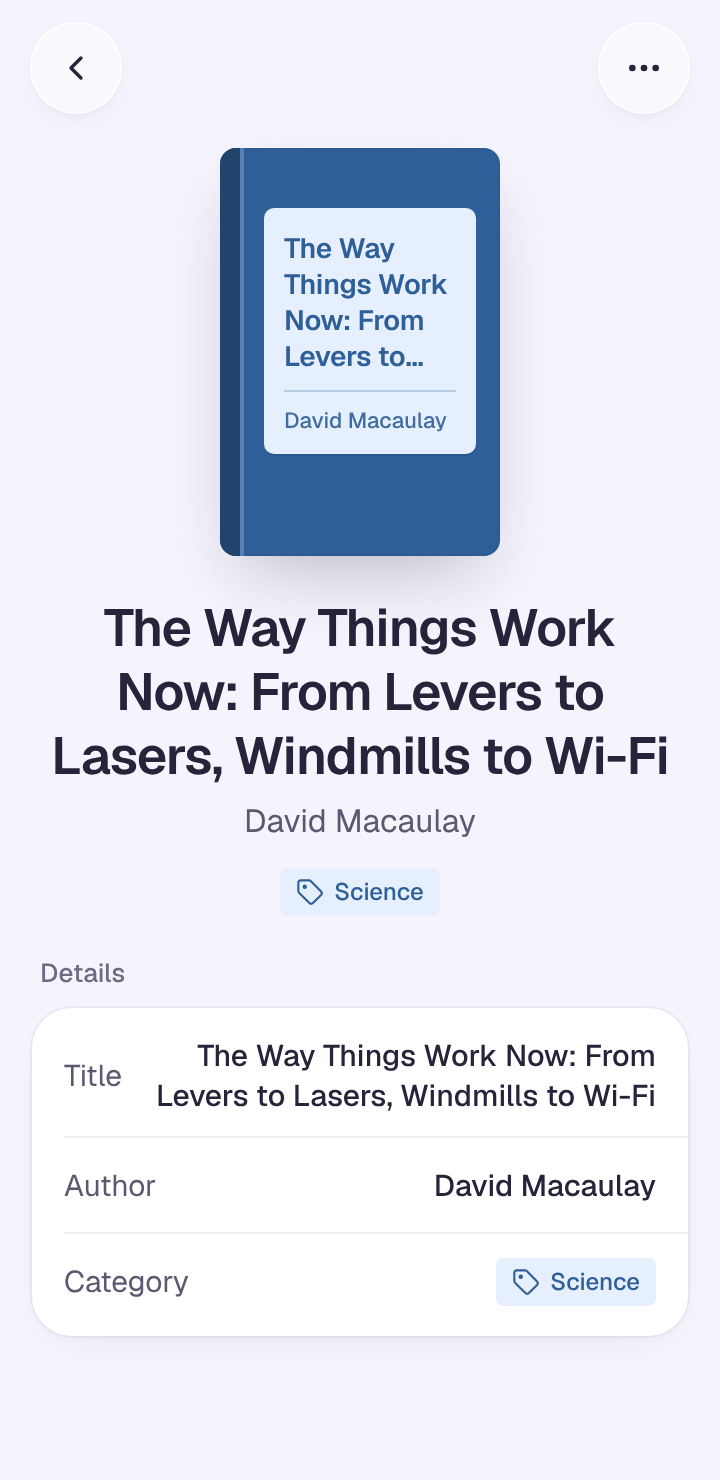
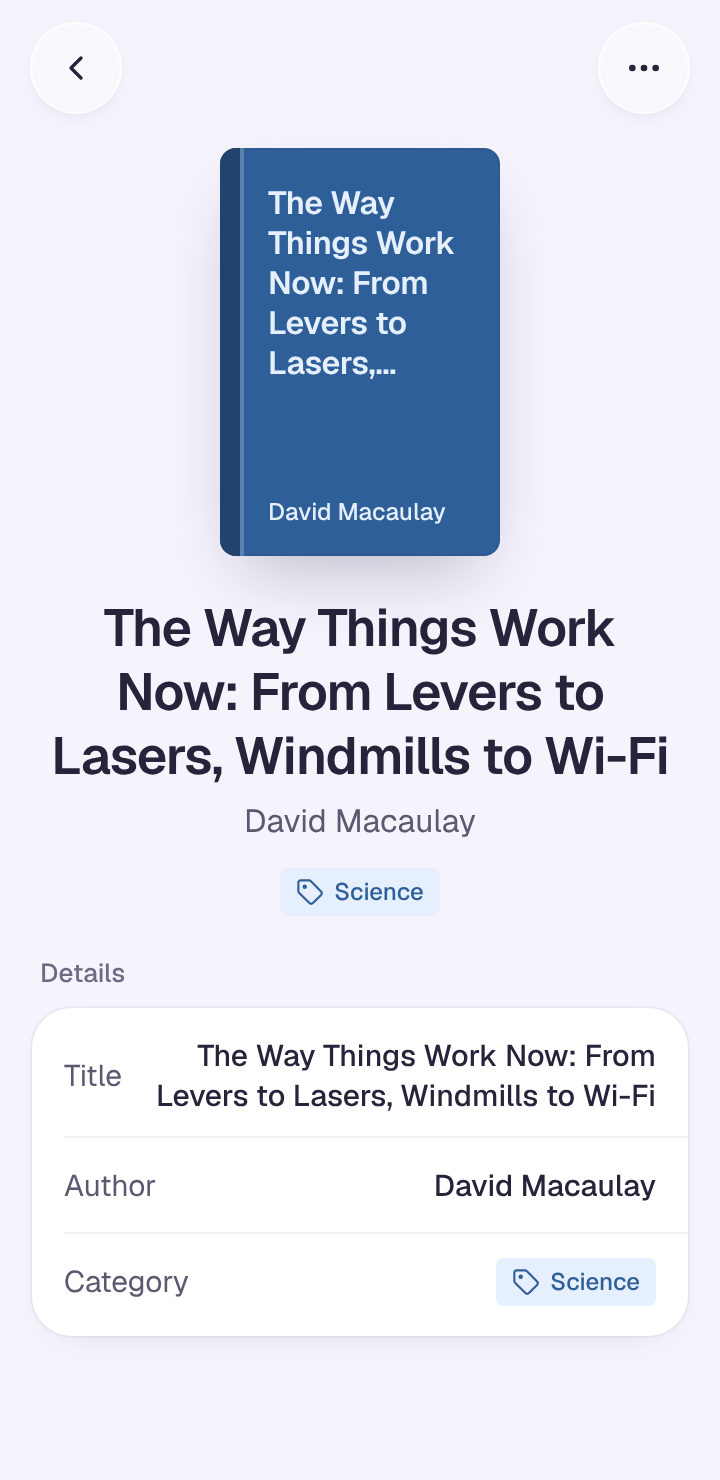
docs(goho): print generated cover text on the cloth and use it in the books list
- Drop the cover label: title and author sit on the category colour cloth in a same-hue contrasting colour
- Deepen the dark cloth so cover text keeps at least 5.2:1
- Use a small generated cover for books without a cover in the books list
- Regenerate the no-cover mockups and add books list mockups

Changed region(s): [[0.3667, 0.1243, 0.6722, 0.3108], [0.3667, 0.3419, 0.6111, 0.373]]

diff --git a/.agents/skills/goho-design/references/screens.md b/.agents/skills/goho-design/references/screens.md
@@ -282,7 +282,7 @@ Native list-only implementation of the October 22 design (`nav-add-closed-*.png`
 
 **Data:** `GET /book-uploads` then `GET /books`, together on start, return to the foreground, pull and retry, independently of receipts. Listing scans first means each succeeded scan's book is already saved. While a scan is queued or processing, Books polls quietly every 5s only while the app is in the foreground. A refresh joins or queues behind one already running.
 
-**List:** one ungrouped `ListCard`, 12dp below the header fade so its top edge stays visible; no date or category headings. Queued and processing scans (“New book”, a shimmering metadata pill, Purple “Reading cover…”) and failed scans (“Unknown book”, upload time, Orange “Not processed”) come first, newest first. Saved books follow in server order, newest first; each shows its cover, one-line title, author with optional “· reading level”, and its server category as a labelled `Tag`. A succeeded scan never adds a second row. Needs attention lists failed scans. Covers load only for books with `hasImage`; books without one show a neutral book placeholder. See `BookRow` in `components.md`.
+**List:** one ungrouped `ListCard`, 12dp below the header fade so its top edge stays visible; no date or category headings. Queued and processing scans (“New book”, a shimmering metadata pill, Purple “Reading cover…”) and failed scans (“Unknown book”, upload time, Orange “Not processed”) come first, newest first. Saved books follow in server order, newest first; each shows its cover, one-line title, author with optional “· reading level”, and its server category as a labelled `Tag`. A succeeded scan never adds a second row. Needs attention lists failed scans. Covers load only for books with `hasImage`; books without one, or whose cover fails to load, show the small generated cloth cover in their category colour (approved October 22, 2026; see `BookCover` in `components.md` and section 9). See `BookRow` in `components.md`.
 
 **States:**
 
@@ -305,7 +305,7 @@ Opened by tapping a saved book row. Rows still reading a cover are not tappable;
 
 **Cover** (books with `hasImage` only; 12 below the bar, centered): the cover image at `bookCover` 140×204dp, `ContentScale.Crop` inside shape `cover` (8dp), a 1dp `outline` ring and a soft drop shadow (0/16/34dp, black at 45% dark / `shadow` at 30% light, −12dp spread). It sits directly on the background, not in a photo frame. Tap opens the existing photo viewer with the uncropped image; accessibility action “View book cover”, viewer description “Book cover, {title}”. While the image is loading, show a `cover`-shaped skeleton mask of the same size that is not tappable.
 
-**Generated cover** (approved October 22, 2026, “cloth and label”; `hasImage` false, or the image fails to load): keep the same 140×204dp `cover` slot so every book page has the same shape, and draw a clothbound book in the category colour. Cloth: fill the slot with the category `TagColor` content colour in light mode, and with the dark container mixed 42% toward the dark content colour in dark mode. Spine: a 10dp band on the leading edge in the cloth colour mixed 28% toward black, followed by a 1.5dp highlight in white at 22% (light) / 10% (dark). Label: a 5dp-rounded plate in the category `TagColor` container, inset 22dp start, 12dp end and 30dp from the top, with 11dp top, 10dp side and 10dp bottom padding and a 1dp bottom edge in black at 6% (light) / 18% (dark). On the label, the title in `bookCoverTitle` (14/18sp SemiBold, −0.01em, up to 4 lines with an ellipsis), a 1dp rule in the content colour at 25% with 8dp above and 7dp below, then the author in 11/14sp Medium at 90%, one line with an ellipsis. All text uses the content colour on the container, so it keeps the tag pair’s contrast (5.4:1 or better) in every colour and theme. The slot keeps a 1dp inset ring (black 8% light, white 6% dark) and the same shadow as a real cover. It is decorative: not tappable, no viewer, and hidden from accessibility (the hero already announces the title and author). Unknown category colours use Grey (Fiction and Nonfiction are Grey today). Book list thumbnails without a cover keep the neutral book placeholder.
+**Generated cover** (approved October 22, 2026, “cloth”; `hasImage` false, or the image fails to load): keep the same 140×204dp `cover` slot so every book page has the same shape, and draw a clothbound book in the category colour with the title and author printed straight on it. Cloth: the category `TagColor` content colour in light mode; in dark mode, the dark container mixed 24% toward the dark content colour. Spine: a 10dp band on the leading edge in the cloth colour mixed 28% toward black, followed by a 1.5dp highlight in white at 22% (light) / 10% (dark). Text, in one same-hue contrasting colour: the category `TagColor` container in light mode, and the dark content colour mixed 40% toward white in dark mode (5.2:1 or better on the cloth in every colour). Title in `bookCoverTitle` (16/20sp SemiBold, −0.01em) at 18dp top, 24dp start (past the spine) and 14dp end, up to 5 lines with an ellipsis. Author in 12/16sp Medium, one line with an ellipsis, 14dp from the bottom with the same side insets. No label, card or rule. The slot keeps a 1dp inset ring (black 8% light, white 6% dark) and the same shadow as a real cover. It is decorative: not tappable, no viewer, and hidden from accessibility (the hero already announces the title and author). Unknown category colours use Grey (Fiction and Nonfiction are Grey today). The Books list uses the small version of this cover (see `BookCover` in components.md).
 
 **Hero** (20 below the cover or generated cover; 24dp side padding, centered text):
 

diff --git a/.agents/skills/goho-design/SKILL.md b/.agents/skills/goho-design/SKILL.md
@@ -37,7 +37,7 @@ Approved design, October 22, 2026. The Add button, the title menu and switching 
 
 The app reopens on the last-used section. Sections keep their own filter page and scroll positions while you switch. Back on a section root does not switch sections. Details screens push over their section as today; the section title is not shown there. Full layout, motion and accessibility specs: [screens.md section 7](references/screens.md#7-section-navigation-and-add-button); components in [components.md](references/components.md#sectiontitle-and-sectionmenu); tokens in [tokens.md](references/tokens.md#navigation-and-add-menu). Mockups: `nav-*.png` in the [mockup guide](assets/mockups/README.md#section-navigation-and-add-button-october-22-2026-approved-design).
 
-**Books** list is implemented as a display-only list; see [screens.md section 8](references/screens.md#8-books-list). Seeded and saved books show their cover or a neutral placeholder, one-line title, author, optional reading level and server category tag; unfinished and failed scans appear first, failed ones under Needs attention. Empty Books is text-only. The complete Books design follows the Receipts patterns exactly: All / Needs attention filters, a scan appearing inline at the top as “Reading cover…”, failed scans kept as Not processed and listed under Needs attention, read-only details, deletion through the shared options sheet, and the same scan preview (“New book”, Upload cover) targeting `POST /book-uploads`. The latest dev contract now includes the Books and book-upload APIs. Verify their current behaviour when implementing the Books screens; API availability alone does not add a Books UI. Books has no search, no manual entry and no editing. Book details are approved as a cover-first page, with a generated “cloth and label” cover (the category colour as the cloth, a darker spine, and a title label) when a book has no cover image: [screens.md section 9](references/screens.md#9-book-details-cover-first). Other unbuilt Books screens (scan preview) have no separate spec yet; derive them from the Receipts specs and the server’s Books contract, and ask before inventing anything else.
+**Books** list is implemented as a display-only list; see [screens.md section 8](references/screens.md#8-books-list). Seeded and saved books show their cover or, without one, a small generated cloth cover in the category colour (approved October 22, 2026; the native list still shows a neutral placeholder), one-line title, author, optional reading level and server category tag; unfinished and failed scans appear first, failed ones under Needs attention. Empty Books is text-only. The complete Books design follows the Receipts patterns exactly: All / Needs attention filters, a scan appearing inline at the top as “Reading cover…”, failed scans kept as Not processed and listed under Needs attention, read-only details, deletion through the shared options sheet, and the same scan preview (“New book”, Upload cover) targeting `POST /book-uploads`. The latest dev contract now includes the Books and book-upload APIs. Verify their current behaviour when implementing the Books screens; API availability alone does not add a Books UI. Books has no search, no manual entry and no editing. Book details are approved as a cover-first page, with a generated “cloth” cover (the category colour as the cloth, a darker spine, and the title and author printed on it in a same-hue contrasting colour) when a book has no cover image; the Books list uses its small version: [screens.md section 9](references/screens.md#9-book-details-cover-first). Other unbuilt Books screens (scan preview) have no separate spec yet; derive them from the Receipts specs and the server’s Books contract, and ask before inventing anything else.
 
 ## Geist typography
 

diff --git a/.agents/skills/goho-design/references/tokens.md b/.agents/skills/goho-design/references/tokens.md
@@ -172,7 +172,7 @@ The `statusCard` color and shape tokens and legacy elevation treatment are retai
 - Separate filter tabs remain below the title, without an enclosing track: 13sp / 18sp, 10dp horizontal padding, 5dp count gaps, 36dp visible selected pill within at least 44dp tap targets. No scroll transition. Use weight 500 and retain one light haptic per completed filter click.
 - `timestamp`: Geist 400, 13sp / 18sp, zero tracking, proportional digit widths.
 - Receipt placeholders: 20×28dp symbols, 1.5dp stroke, centered in the existing 40×48dp thumbnail.
-- Book cover placeholders: 20dp (`coverIcon`) book or scan icons centered in the 40×56dp cover. Failed scans add an 8dp (`coverDot`) `attention` dot inset 6dp (`coverDotInset`) from the bottom end.
+- Book cover placeholders: saved books without a cover use the small generated cloth cover (`BookCover` in components.md). Scans use 20dp (`coverIcon`) book or scan icons centered in the 40×56dp cover. Failed scans add an 8dp (`coverDot`) `attention` dot inset 6dp (`coverDotInset`) from the bottom end.
 
 ## Receipt item card
 
@@ -217,4 +217,4 @@ Motion: native `SECTION_MENU_ENTER_MILLIS` = 160 / `SECTION_MENU_EXIT_MILLIS` = 
 
 ## Book details
 
-Approved October 22, 2026 (`screens.md` section 8). `bookCover` = 140×204dp (about 2:3), shape `cover` 8dp, 1dp `outline` ring, shadow 0/16/34dp with −12dp spread (black 45% in dark, `shadow` 30% in light). `bookTitle` = 26/32sp, weight 600, −0.02em, centered, unlimited lines. Author uses 16/22sp Regular in `textSecondary`. Spacing: cover 12 below the top bar, hero 20 below the cover, author 6 below the title, tag 12 below the author, Details label 24 below the hero. Book list thumbnails stay 40×56dp with the `thumb` shape. Generated cover (no image, “cloth and label”): cloth = category `TagColor` content (light) or dark container mixed 42% toward dark content (dark); 10dp spine in the cloth mixed 28% toward black plus a 1.5dp white highlight (22% light / 10% dark); label = `TagColor` container, 5dp corners, inset 22 start / 12 end / 30 top, padding 11 top / 10 sides / 10 bottom; `bookCoverTitle` = 14/18sp SemiBold −0.01em (max 4 lines), 1dp rule at 25% (8 above, 7 below), author 11/14sp Medium at 90% (1 line). Label text is the content colour on the container.
+Approved October 22, 2026 (`screens.md` section 8). `bookCover` = 140×204dp (about 2:3), shape `cover` 8dp, 1dp `outline` ring, shadow 0/16/34dp with −12dp spread (black 45% in dark, `shadow` 30% in light). `bookTitle` = 26/32sp, weight 600, −0.02em, centered, unlimited lines. Author uses 16/22sp Regular in `textSecondary`. Spacing: cover 12 below the top bar, hero 20 below the cover, author 6 below the title, tag 12 below the author, Details label 24 below the hero. Book list thumbnails stay 40×56dp with the `thumb` shape. Generated cover (no image, “cloth”): cloth = category `TagColor` content (light) or dark container mixed 24% toward dark content (dark); 10dp spine in the cloth mixed 28% toward black plus a 1.5dp white highlight (22% light / 10% dark); text = `TagColor` container (light) or dark content mixed 40% toward white (dark), at least 5.2:1 on the cloth; `bookCoverTitle` = 16/20sp SemiBold −0.01em (max 5 lines) at 18 top / 24 start / 14 end; author 12/16sp Medium (1 line), 14 from the bottom. List thumbnails use the 40×56dp version with a 3dp spine and bar marks instead of text.

diff --git a/.agents/skills/goho-design/assets/mockups/README.md b/.agents/skills/goho-design/assets/mockups/README.md
@@ -9,7 +9,8 @@ The current family icon sources and Android resources are documented in the [lau
 Design renders from the Goho brand canvas (“Book details”) at 360dp width and 2× (720×1480px). The [section 9 spec](../../references/screens.md#9-book-details-cover-first) wins where they differ. Books and covers are illustrative sample data.
 
 - `book-details-light.png`, `book-details-dark.png`: cover first, centered title, author and category tag, then the Details card.
-- `book-details-no-cover-light.png`, `book-details-no-cover-dark.png`: the generated “cloth and label” cover for books without a cover image (category colour cloth, darker spine, title label in the tag container colour); the light one also has no reading level and a long title that the label truncates while the hero wraps it.
+- `book-details-no-cover-light.png`, `book-details-no-cover-dark.png`: the generated “cloth” cover for books without a cover image (category colour cloth, darker spine, title and author printed in a same-hue contrasting colour); the light one also has no reading level and a long title that the cover truncates while the hero wraps it.
+- `books-generated-covers-light.png`, `books-generated-covers-dark.png`: the Books list with the small generated cover for books without a cover image, in each category colour, beside an illustrative real cover.
 - `book-details-loading-light.png`, `book-details-cover-loading-dark.png`: initial loading, and a loaded book whose cover is still loading.
 - `book-details-options-light.png`, `book-details-confirm-dark.png`, `book-details-delete-error-light.png`: the shared options sheet with Delete book, its confirmation and its failure state.
 
@@ -39,7 +40,7 @@ Canonical source snapshots: `SectionTitle.kt`, `SectionMenu.kt`, `SectionScreen.
 
 Display-only Books list reached from the title menu, using books from the local development seed (no covers). The dark and large-text captures also include temporary processing and failed upload rows; these were removed after manual validation. It follows [screens.md section 8](../../references/screens.md#8-books-list); the approved `nav-add-closed-*.png` and `nav-menu-books-*.png` renders above remain the design reference. Native captures from the Goho Dev emulator, added after validation:
 
-- `books-native-light.png`, `books-native-dark.png`: seeded books with neutral cover placeholders, one-line titles, author and optional reading level, and server category tags.
+- `books-native-light.png`, `books-native-dark.png`: seeded books with neutral cover placeholders (now superseded by the generated cover, `books-generated-covers-*.png`), one-line titles, author and optional reading level, and server category tags.
 - `books-menu-native-light.png`: the section menu opened from Books, Books selected, with Receipts' All count and the saved-book count.
 - `books-native-loading-light.png`: the initial skeleton rows with Add in its usual position.
 - `books-native-empty-light.png`: the text-only empty state.

diff --git a/.agents/skills/goho-design/references/components.md b/.agents/skills/goho-design/references/components.md
@@ -260,5 +260,5 @@ Display-only Books rows in `ui/main/BookRow.kt` (mirrored), inside one `ListCard
 - Title: `rowTitle`, one line with ellipsis at every font size; `textPrimary` for saved books, `textSecondary` for “New book” and “Unknown book”.
 - Metadata (`meta`, `textTertiary`): author, or “author · reading level” when one is set. A processing scan shows a shimmering 12dp pill in the metadata line. A failed scan shows its upload time like receipt rows (“Today, 8:14 AM”, otherwise “Yesterday” or a short weekday date).
 - Tag: `CategoryTag` for saved books from the server's icon and colour keys; `BookUploadTag` for scans. Standard rows cap it at 160dp beside the text; at font scale ≥1.3 or narrow widths the tag moves under the metadata, end-aligned, and metadata may wrap.
-- `BookCover`: 40×56dp (`thumbWidth` × `coverHeight`) with the thumbnail shape, outline and skeleton mask, so the 68dp divider inset still applies. Covers load through the shared `ThumbnailCache` only when the book `hasImage` and the cover is on screen; missing or failed covers fall back to the placeholder and are requested again when the row next needs them. The cache keeps only loaded images, so they survive section switches. Placeholders are decorative 20dp icons: a neutral book on `surfaceMuted`, a lavender scan mark on `accentContainer` while processing, and an orange book on `attentionContainer` with an 8dp attention dot inset 6dp from the bottom end for failures.
+- `BookCover`: 40×56dp (`thumbWidth` × `coverHeight`) with the thumbnail shape, outline and skeleton mask, so the 68dp divider inset still applies. Covers load through the shared `ThumbnailCache` only when the book `hasImage` and the cover is on screen; saved books without a cover, or whose cover fails to load, show the small generated cover and failed loads are requested again when the row next needs them. The cache keeps only loaded images, so they survive section switches. Generated cover (approved October 22, 2026, the small version of the book details cloth cover in section 9): the same cloth colour and 8dp corners with a 1dp inset ring, a 3dp spine in the cloth mixed 28% toward black, and the title and author as marks in the cover text colour: two 3dp rounded bars 8dp from the start (8dp from the top to 6dp from the end, and 14dp from the top to 12dp from the end), plus a 14×2dp bar 7dp from the bottom at 85%. No readable text at this size; it is decorative and the row announces the book. Scan placeholders are decorative 20dp icons: a lavender scan mark on `accentContainer` while processing, and an orange book on `attentionContainer` with an 8dp attention dot inset 6dp from the bottom end for failures.
 - Loading: four null rows inside `SkeletonScope` with one “Loading books…” polite progress description.
